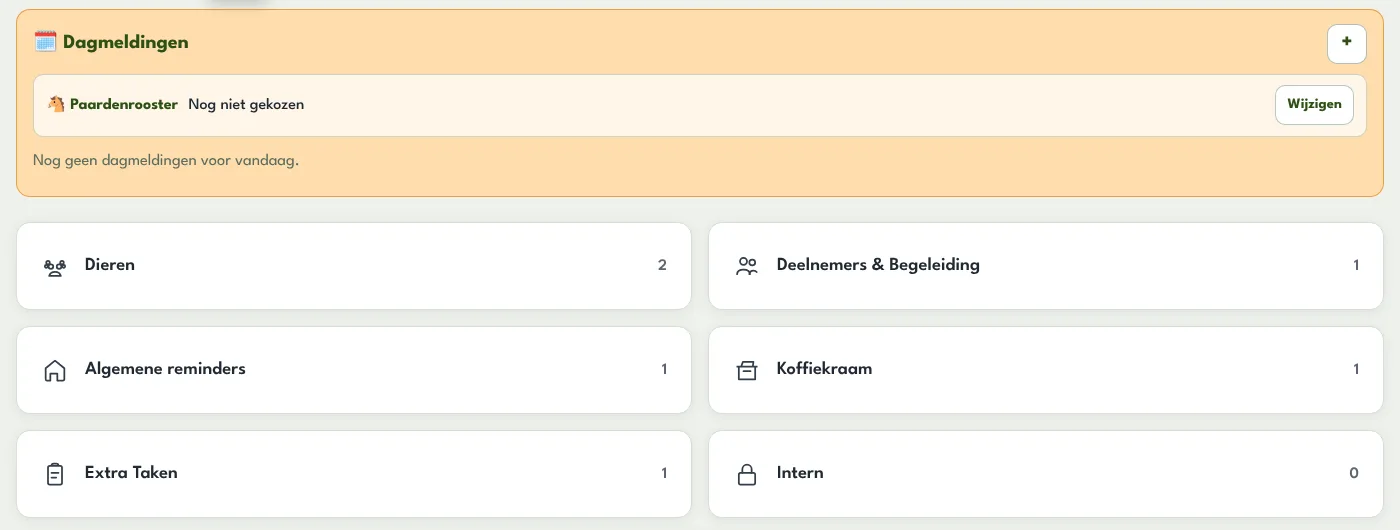
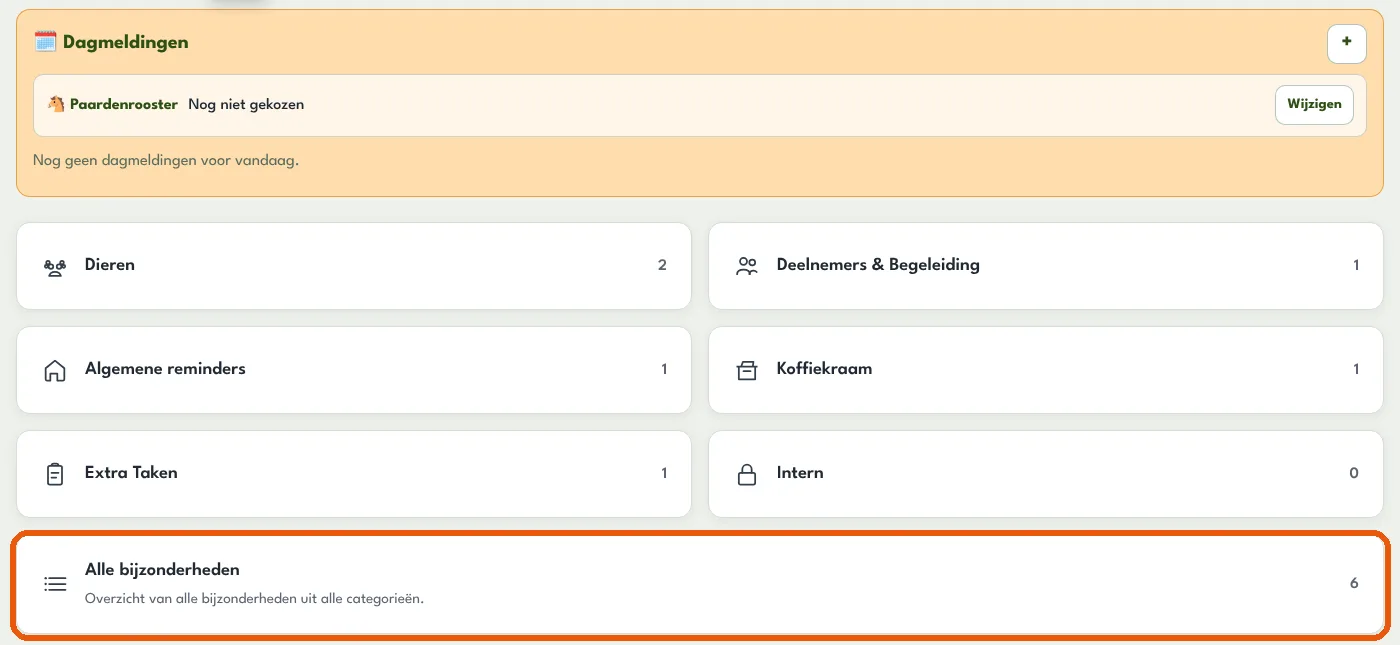
Digibord-les stap 3: alle bijzonderheden in één lijst en Belangrijk-vinkje
Claude-Session: https://claude.ai/code/session_01YJR1csE5VvoExwNnz73v5v

diff --git a/src/components/Timeline.jsx b/src/components/Timeline.jsx
@@ -18,6 +18,14 @@ function Timeline({ items = [] }) {
               {typeof item === 'object' && item.src ? (
                 <ZoomImage src={item.src} alt={item.alt || label} />
               ) : null}
+              {typeof item === 'object' && Array.isArray(item.extra)
+                ? item.extra.map((extra, extraIndex) => (
+                    <div key={extraIndex} className="timeline__extra">
+                      {extra.text ? <p className="timeline__text"><RichText text={extra.text} /></p> : null}
+                      {extra.src ? <ZoomImage src={extra.src} alt={extra.alt || ''} /> : null}
+                    </div>
+                  ))
+                : null}
             </div>
           </li>
         )

diff --git a/src/editor/labels.js b/src/editor/labels.js
@@ -38,6 +38,7 @@ export const FIELD_NAMES = {
   answer: 'Antwoord',
   answerLabel: 'Tekst op de knop voor het antwoord',
   caption: 'Onderschrift',
+  extra: 'Extra uitleg',
   alt: 'Omschrijving van de foto (voor wie niet kan zien)',
   note: 'Notitie',
   items: 'Punt',

diff --git a/src/components/Timeline.css b/src/components/Timeline.css
@@ -64,3 +64,10 @@
   color: var(--text-muted);
   white-space: pre-line;
 }
+
+/* Extra uitleg onder een stap, met een eigen plaatje. */
+.timeline__extra {
+  margin-top: 0.9rem;
+  padding-top: 0.8rem;
+  border-top: 1px dashed var(--tile-border);
+}
